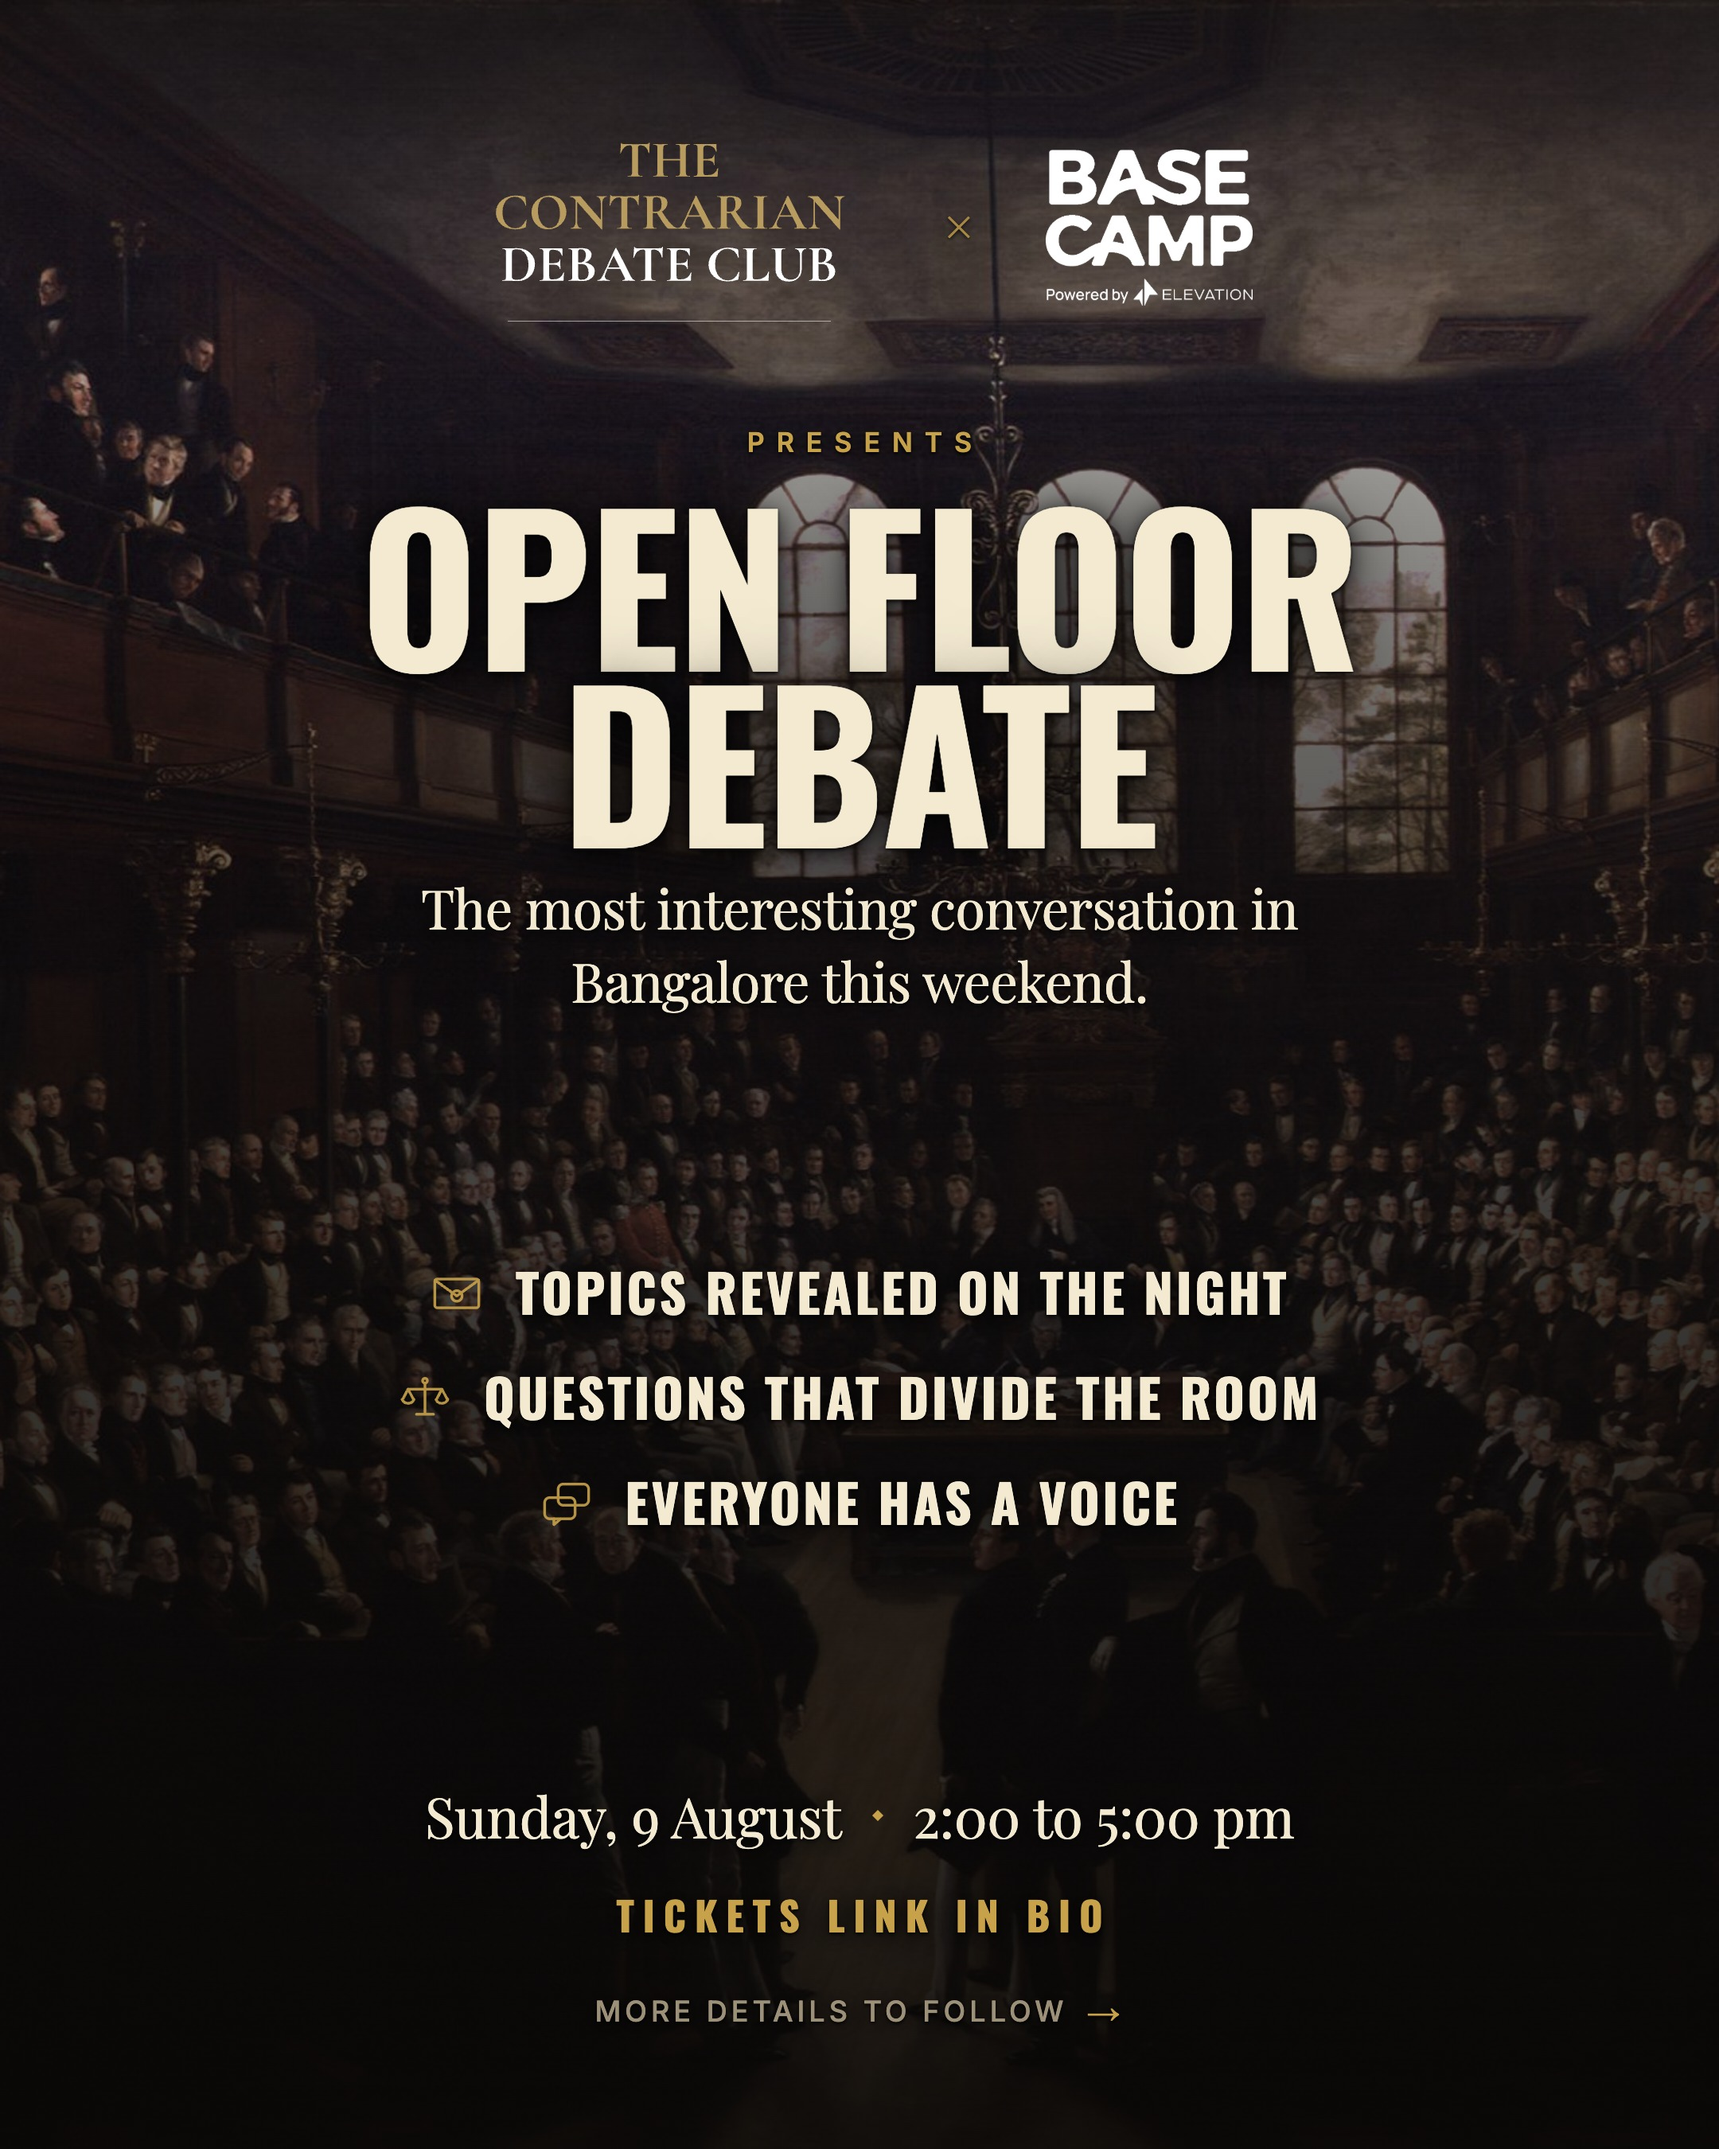
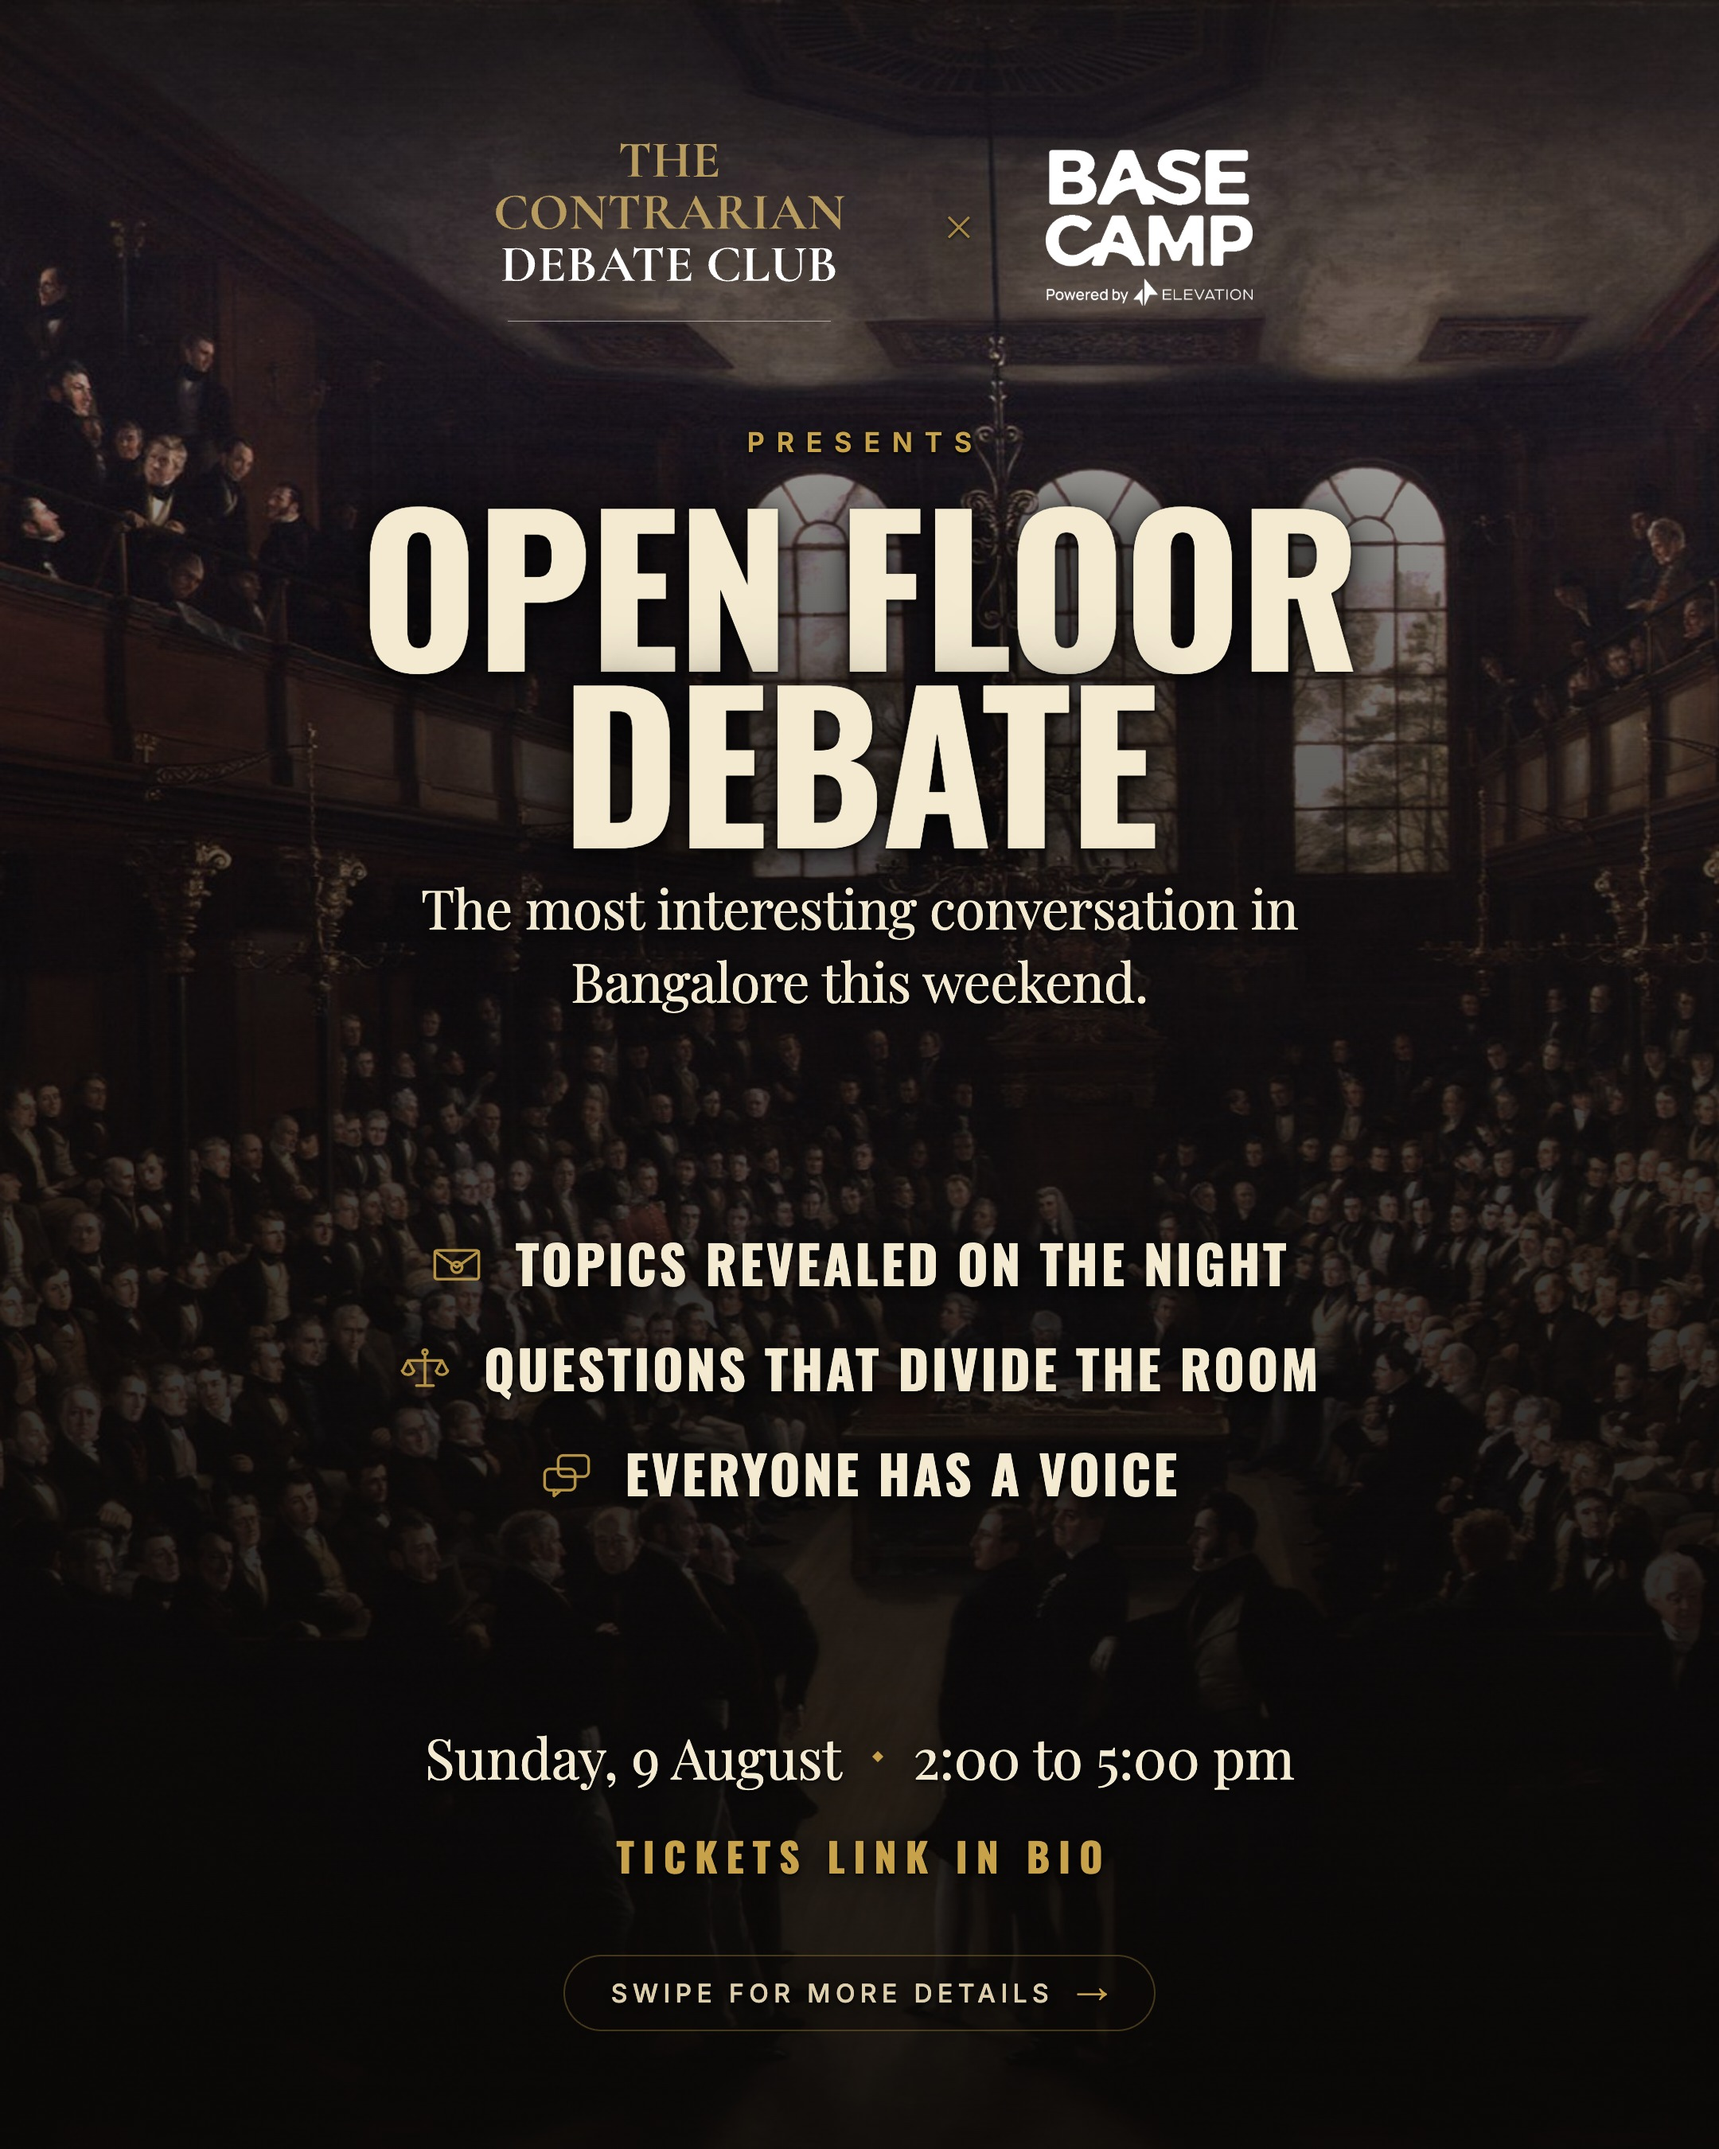
feat(posters): set the swipe cue apart as an affordance
Stacked under the date and the ticket line it read as a third line of copy.
It now sits alone at the foot in an outlined capsule, the only outline
anywhere on the poster, so it registers as something to act on rather than
something to read. Reads 'Swipe for more details'.

Carousel only. The standalone poster omits swipeHint and is unaffected.

Changed region(s): [[0.2171, 0.56, 0.7755, 0.7156], [0.2481, 0.8089, 0.7444, 0.9644]]

diff --git a/posters/works/2026-08-09-open-floor-debate/slides.tsx b/posters/works/2026-08-09-open-floor-debate/slides.tsx
@@ -349,27 +349,39 @@ export function Poster({
           ))}
         </div>
 
-        <Footer when={when} cta={cta}>
-          {swipeHint && (
-            <span
-              style={{
-                marginTop: 10,
-                display: "flex",
-                alignItems: "center",
-                gap: 12,
-                fontFamily: "var(--cc-font-ui)",
-                fontWeight: 500,
-                fontSize: 18,
-                letterSpacing: "0.14em",
-                textTransform: "uppercase",
-                color: "var(--cc-muted)",
-              }}
-            >
-              {swipeHint}
-              <span style={{ color: GOLD, fontSize: 21 }}>&rarr;</span>
+        <Footer when={when} cta={cta} />
+
+        {/* The swipe cue is an affordance, not part of the poster. Stacked
+            with the date and the ticket line it read as a third line of copy,
+            so it is set apart: pushed to the foot on its own, and given the
+            one outline anywhere on this poster. A viewer should register it as
+            something to act on rather than something to read. */}
+        {swipeHint && (
+          <span
+            style={{
+              marginTop: 44,
+              display: "flex",
+              alignItems: "center",
+              gap: 14,
+              padding: "11px 26px",
+              border: "1px solid rgba(200,162,74,0.3)",
+              borderRadius: 999,
+              background: "rgba(11,9,7,0.35)",
+              fontFamily: "var(--cc-font-ui)",
+              fontWeight: 500,
+              fontSize: 16,
+              letterSpacing: "0.2em",
+              paddingLeft: "calc(26px + 0.2em)",
+              textTransform: "uppercase",
+              color: "var(--cc-parchment)",
+            }}
+          >
+            {swipeHint}
+            <span style={{ color: GOLD, fontSize: 20, transform: "translateY(-1px)" }}>
+              &rarr;
             </span>
-          )}
-        </Footer>
+          </span>
+        )}
       </div>
     </div>
   );

diff --git a/posters/works/2026-08-09-open-floor-debate/spec.tsx b/posters/works/2026-08-09-open-floor-debate/spec.tsx
@@ -54,7 +54,7 @@ const work: WorkSpec = {
           ]}
           when={WHEN}
           cta={CTA}
-          swipeHint="More details to follow"
+          swipeHint="Swipe for more details"
         />
       ),
     },
